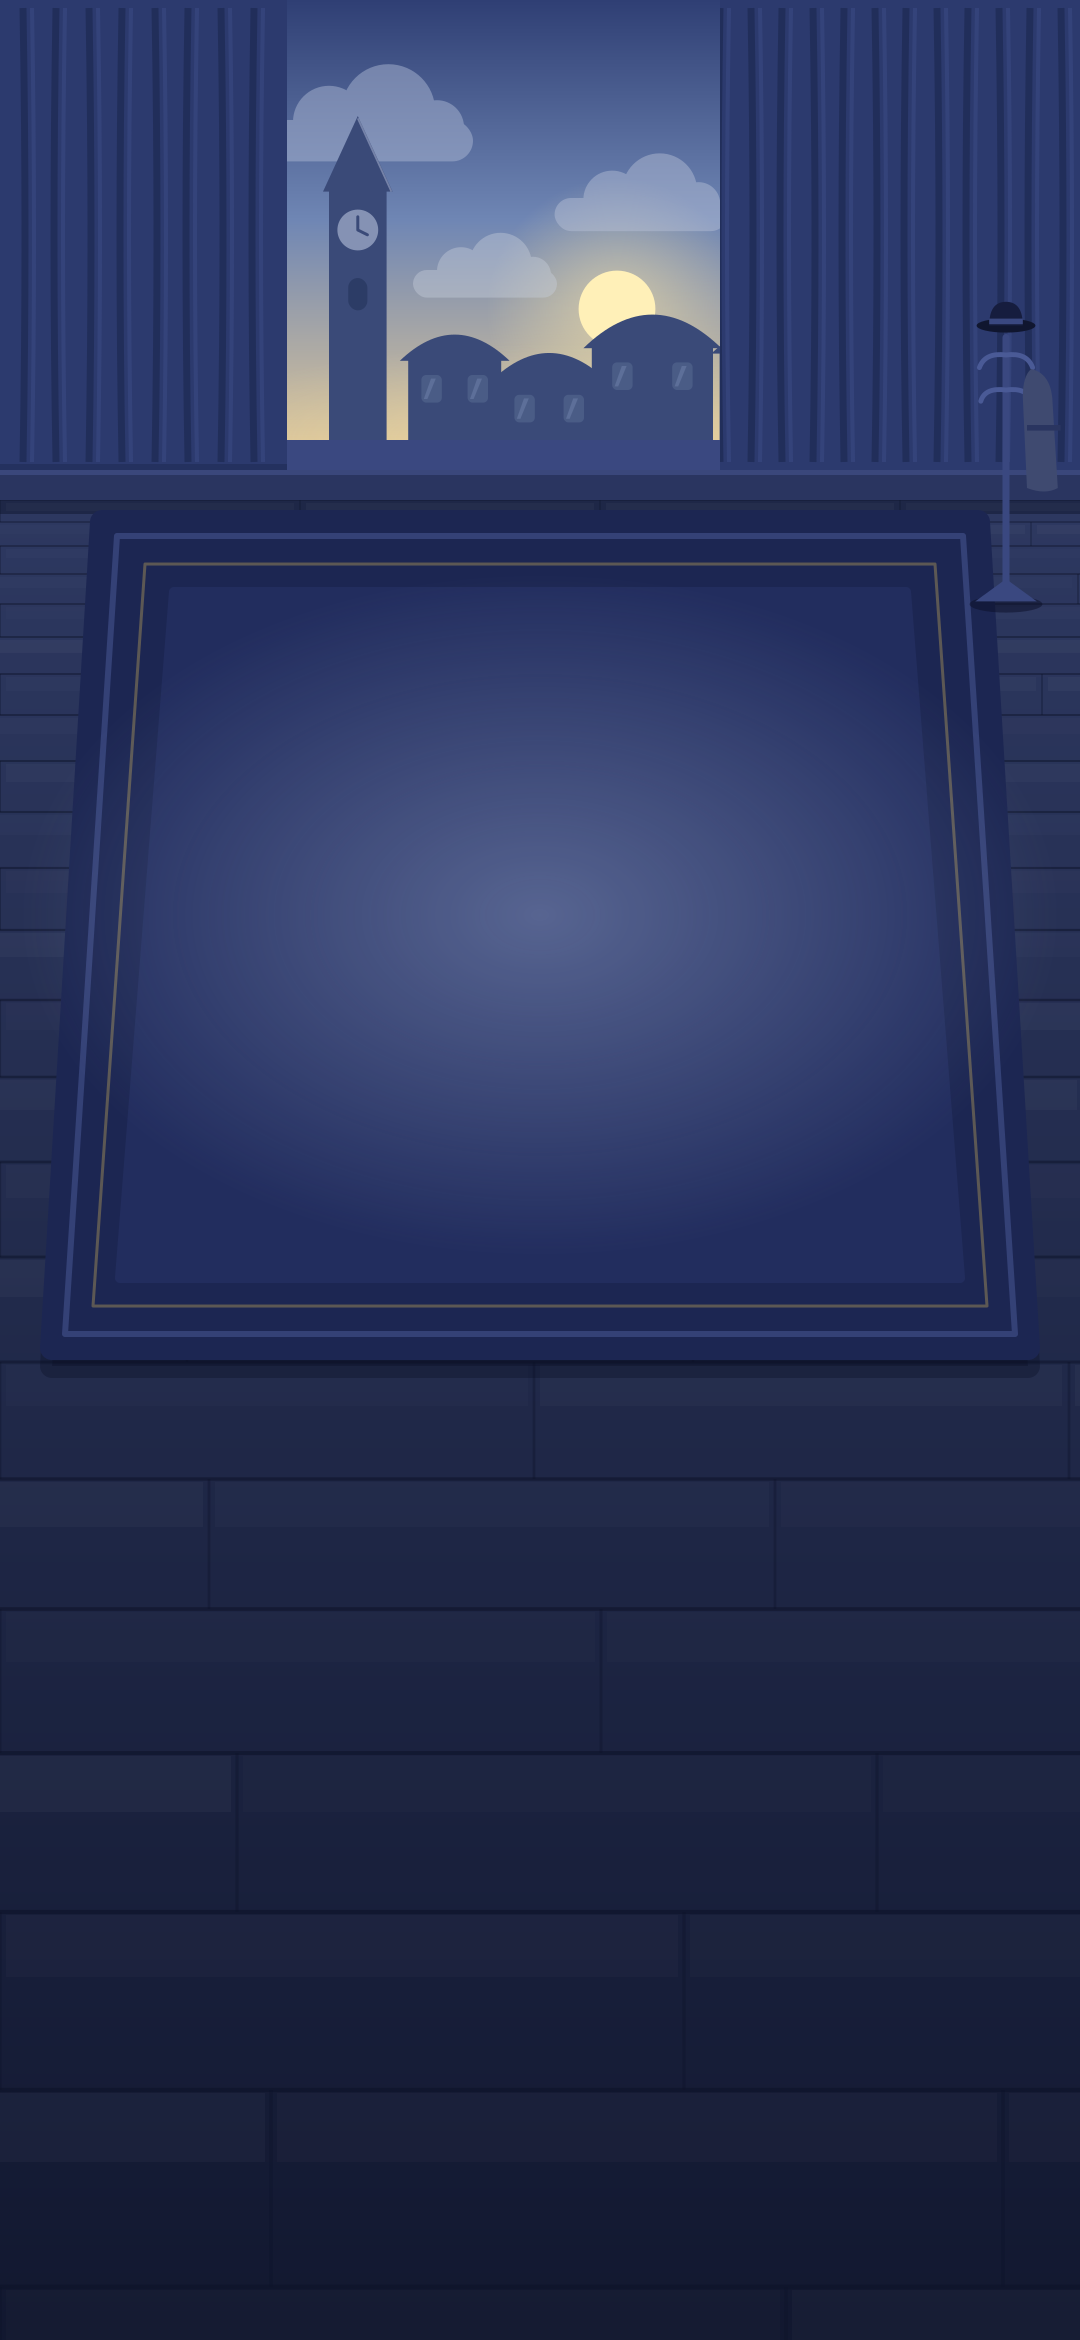
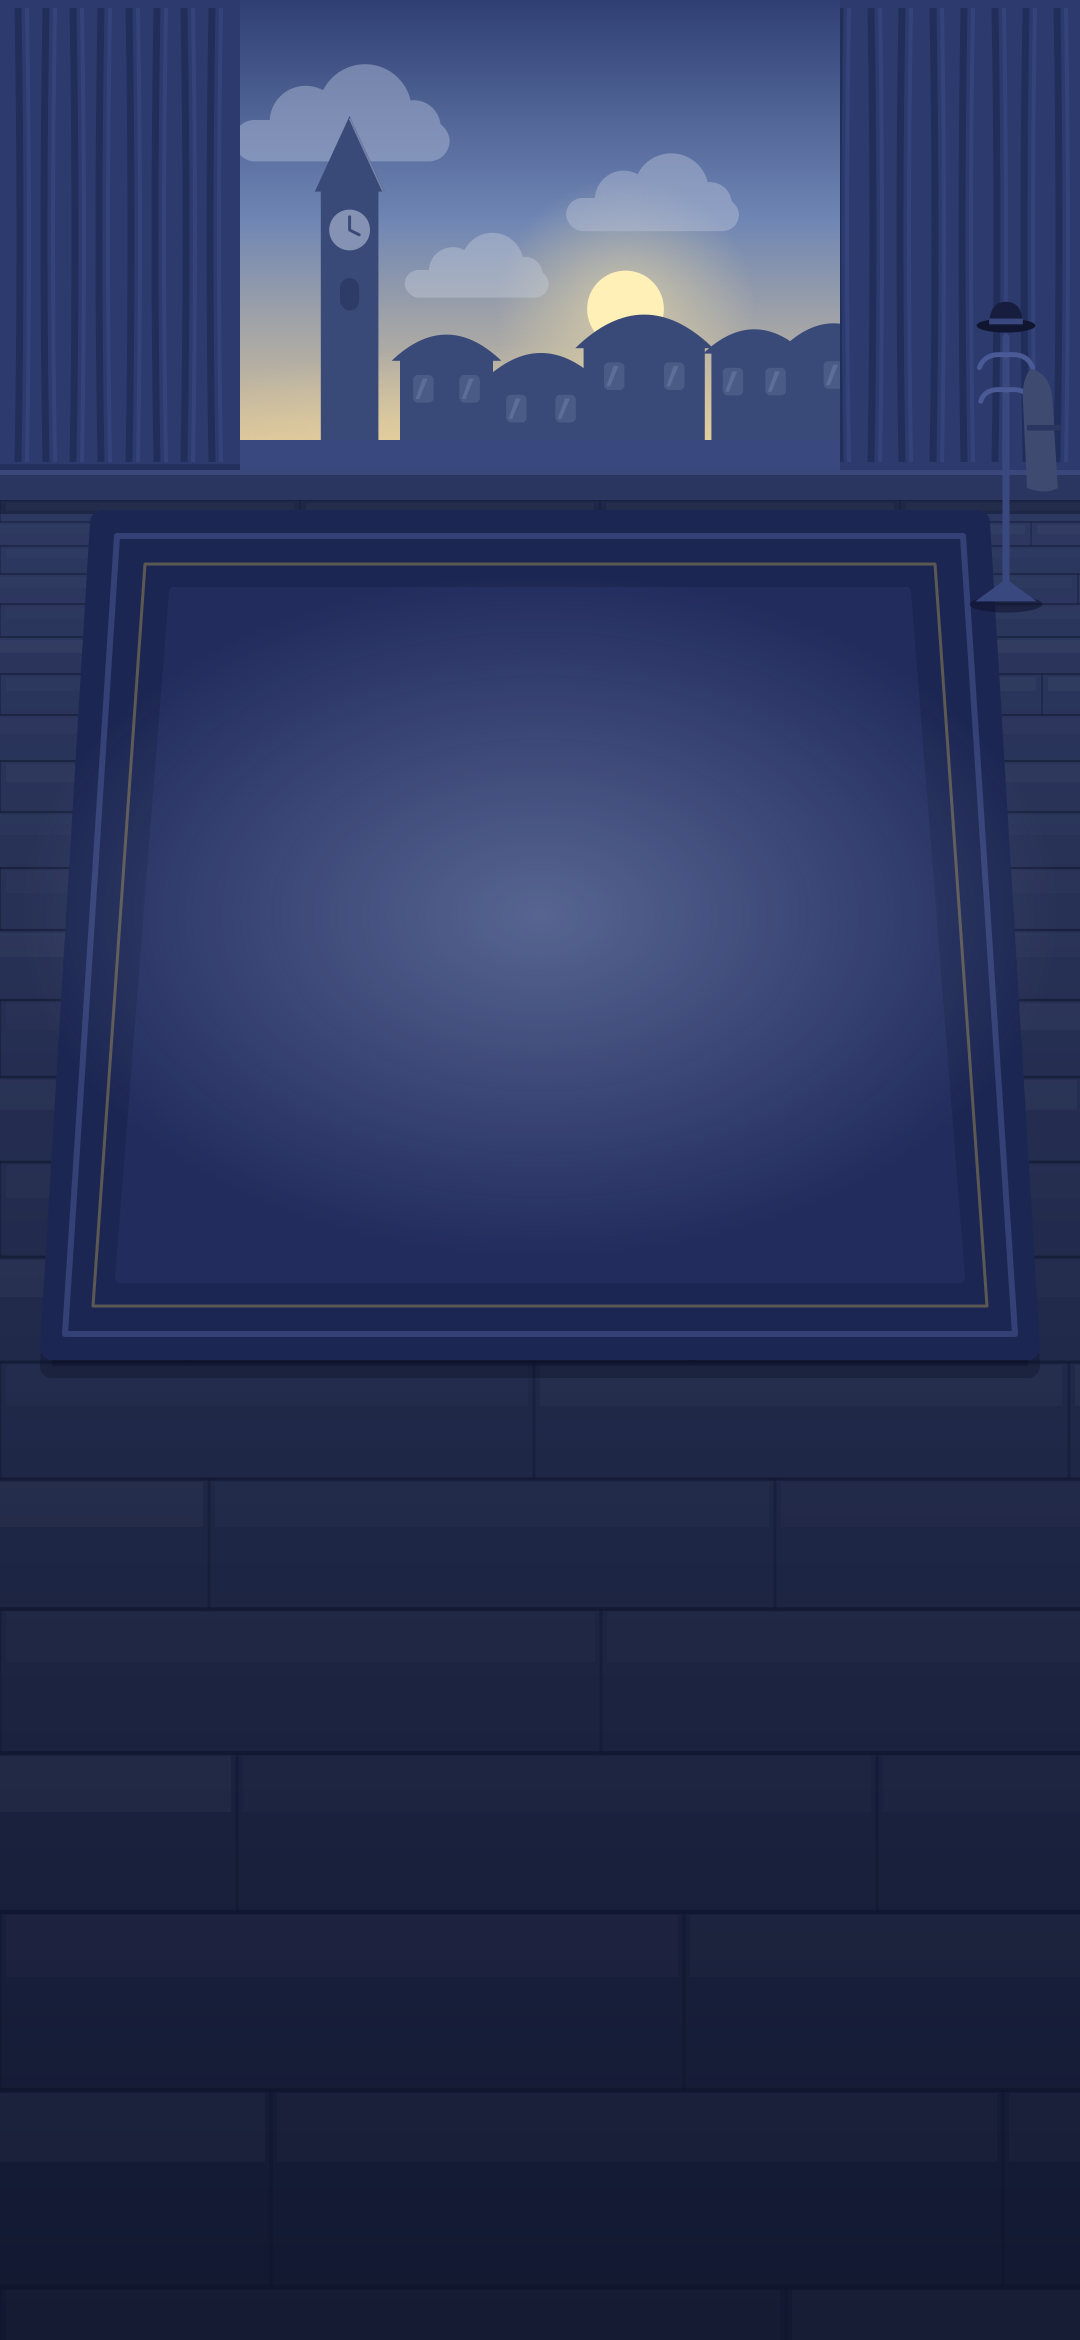
feat(bg): 실내 V2 커튼 걷힘 수정본 적용, 명도 0.8 을 변환 단계에 굽고 CSS 필터 제거
Claude-Session: https://claude.ai/code/session_01FCTtG9gzLDiavkmfWVt6rc

diff --git a/test/unit/backdropContrast.test.ts b/test/unit/backdropContrast.test.ts
@@ -36,10 +36,7 @@ const revealScrim = (() => {
   return { color: [Number(m[1]), Number(m[2]), Number(m[3])] as Rgb, alpha: Number(m[4]) };
 })();
 
-const dsCss = readFileSync(new URL("../../src/styles/ds.css", import.meta.url), "utf8");
 const phaseCss = readFileSync(new URL("../../src/styles/phase.css", import.meta.url), "utf8");
-/** 게임 구도 그림 전체 명도 배율(ds.css --mf-backdrop-dim) */
-const DIM = Number(/--mf-backdrop-dim:\s*([\d.]+)/.exec(dsCss)?.[1] ?? 1);
 /** 글씨 묶음 뒤 번짐 알파(phase.css, 남색 N%) */
 const HALO = Number(/\.mf-phasebar__text::before[^}]*night-900\) (\d+)%/.exec(phaseCss)?.[1] ?? 0) / 100;
 
@@ -98,7 +95,7 @@ async function contrastOf(scene: SceneId, w: number, zone: Zone, overlay: Overla
   for (let y = Math.ceil(zone.y0 - 0.5); y + 0.5 <= zone.y1; y++) {
     for (let x = Math.ceil(zone.x0 - 0.5); x + 0.5 <= zone.x1; x++) {
       const i = (y * width + x) * channels;
-      let px: Rgb = [data[i]! * DIM, data[i + 1]! * DIM, data[i + 2]! * DIM];
+      let px: Rgb = [data[i]!, data[i + 1]!, data[i + 2]!];
       let a = 0;
       let c: Rgb = NIGHT_900;
       if (overlay === "headerScrim") a = scrimAlpha(y + 0.5);
@@ -155,7 +152,7 @@ describe("장면 그림 6장 × 폰 폭 360·390·430 × 헤더 글씨 구역 p9
 });
 
 describe("막이 필요하다는 사실을 고정한다", () => {
-  it("실내 배경은 헤더 막 없이 밝기 배율과 글씨 뒤 번짐만으로 모든 장면·폭에서 제목과 타이머가 4.5 이상이다 (막을 쓰지 않는다)", async () => {
+  it("실내 배경은 헤더 막 없이 구워진 명도(0.8)와 글씨 뒤 번짐만으로 모든 장면·폭에서 제목과 타이머가 4.5 이상이다 (막을 쓰지 않는다)", async () => {
     for (const scene of GAME_SCENES) {
       for (const w of WIDTHS) {
         const title = await contrastOf(scene, w, titleZone(), "textHalo");

diff --git a/src/styles/ds.css b/src/styles/ds.css
@@ -51,13 +51,11 @@
 
 /* Backdrop: 화면 뒤 배경 장면 */
 :where(.mf-backdrop) { width: 100%; height: 100%; }
-.mf-backdrop { --mf-backdrop-dim: 0.8; position: relative; overflow: hidden; background: var(--night-900); isolation: isolate; }
+.mf-backdrop { position: relative; overflow: hidden; background: var(--night-900); isolation: isolate; }
 .mf-backdrop__art { position: absolute; inset: 0; z-index: -1; pointer-events: none; background-size: cover; background-repeat: no-repeat; transition: opacity var(--dur-slow) var(--ease-out); }
 /* 장면이 바뀌면 층을 쌓는다: 새 층(entering)은 그림이 준비된 뒤 current 로 켜지고 이전 층(leaving)은 꺼진 뒤 걷힌다. 축소 모션은 base.css 전역 규칙이 처리한다. */
 .mf-backdrop__art[data-state="entering"], .mf-backdrop__art[data-state="leaving"] { opacity: 0; }
 .mf-backdrop__art[data-state="current"] { opacity: 1; }
-/* 실내 배경(V2): 헤더 글씨가 읽히도록 게임 구도 그림 전체 명도를 낮춘다(0.8 = 색 값을 0.8배, 채도·색상 그대로). 입구 구도는 그대로. */
-.mf-backdrop__art[data-layout="game"] { filter: brightness(var(--mf-backdrop-dim)); }
 /* 아침·낮(밝은 하늘): 헤더 위쪽 어두운 막. 값은 src/game/scenes.ts 의 HEADER_SCRIM_STOPS 가 인라인 --mf-scrim 으로 싣는다(층과 함께 전환). */
 .mf-backdrop__art[style*="--mf-scrim"]::after { content: ""; position: absolute; inset: 0 0 auto 0; height: 150px; background: var(--mf-scrim); pointer-events: none; }
 .mf-backdrop__content { position: relative; height: 100%; }

diff --git a/src/net/assets.ts b/src/net/assets.ts
@@ -27,7 +27,7 @@ export type PreloadItem = { href: string; imageSrcSet?: string };
  * 배경·유령 그림 주소 끝에 붙이는 값. 파일 이름이 같아도 그림을 바꾼 배포가 바로 보이게 한다
  * (정적 그림 캐시가 max-age 1일이라 같은 주소는 하루 동안 옛 그림이 나온다). 그림을 바꾸면 값을 바꾼다.
  */
-export const ASSET_VERSION = "i2";
+export const ASSET_VERSION = "i3";
 
 // 파일 이름의 @ 는 URL 에서 %40 으로 쓴다. 유령 그림은 바꾼 적이 있어 버전 값을 붙인다.
 function png(dir: "table" | "roles" | "ghost", id: string, scale: 2 | 4): string {

diff --git a/src/components/Backdrop.tsx b/src/components/Backdrop.tsx
@@ -120,7 +120,7 @@ export function Backdrop(props: BackdropProps) {
           backgroundPosition: "center top",
         };
         if (SCENES[l.scene].scrim) style["--mf-scrim"] = headerScrimGradient();
-        return <div key={l.id} className="mf-backdrop__art" data-layout={layout} data-scene={l.scene} data-state={l.state} style={style} aria-hidden="true" />;
+        return <div key={l.id} className="mf-backdrop__art" data-scene={l.scene} data-state={l.state} style={style} aria-hidden="true" />;
       })}
       {children ? <div className="mf-backdrop__content">{children}</div> : null}
     </div>

diff --git a/test/client/backdrop.test.tsx b/test/client/backdrop.test.tsx
@@ -63,7 +63,7 @@ describe("Backdrop 층 규칙", () => {
     const { container } = render(<Backdrop layout="game" scene="morning" />);
     const art = container.querySelector<HTMLElement>(".mf-backdrop__art")!;
     expect(art.getAttribute("aria-hidden")).toBe("true");
-    expect(art.style.backgroundImage).toMatch(/^url\(["']?\/backgrounds\/bg_game_morning\.webp\?v=i2["']?\)$/);
+    expect(art.style.backgroundImage).toMatch(/^url\(["']?\/backgrounds\/bg_game_morning\.webp\?v=i3["']?\)$/);
     expect(art.style.backgroundPosition).toContain("top");
   });
 

diff --git a/docs/decisions/0033-indoor-v2-dim-halo.md b/docs/decisions/0033-indoor-v2-dim-halo.md
@@ -8,10 +8,10 @@
 
 1. 게임 구도 배경을 데스크톱의 "실내 배경 레이어 V2" 완성 모습 5장(`design/backgrounds/v5/`)으로 바꾼다. 창 유리와 커튼이 맨 위까지 이어지고, 해·달·구름이 장면마다 다르다. 입구 그림은 v3 그대로. WebP 합계 206.0KB.
 2. 그림을 더 고치지 않고 **화면 쪽에서 글씨를 읽히게 한다**(사용자 결정: 그림 위치·내용을 계속 바꾸기보다 UI 에서 해결).
-   - 게임 구도 배경 층에 `filter: brightness(var(--mf-backdrop-dim))`, 값 **0.8**(색 값 0.8배, 채도·색상 그대로). 0.85 는 H1 4.2:1 로 모자랐고 0.8 에서 전부 통과.
+   - 게임 구도 그림 전체 명도 **0.8**(색 값 0.8배, 채도·색상 그대로). 처음에는 CSS `filter: brightness()` 로 걸어 폰에서 확인했고("어둡지도 밝지도 않고 적절"), 사용자 결정으로 **변환 단계에 굽는 방식**으로 바꿨다(`scripts/make-backdrops.mjs` `GAME_BRIGHTNESS`, sharp `linear(0.8, 0)` — CSS 와 같은 계산, 원본 PNG 는 그대로). 값을 바꾸려면 상수를 고치고 `npm run backdrops`, `ASSET_VERSION` 을 올린다. 0.85 는 H1 4.2:1 로 모자랐고 0.8 에서 전부 통과.
    - 헤더 글씨 묶음(제목·안내, 대기실 방 코드) 뒤에 약한 번짐(남색 45%, 흐림 8px). 글씨 뒤의 별도 요소라 E2E H1 에 반영된다(text-shadow 는 반영되지 않음).
    - 헤더 어두운 막은 쓰지 않는다(`SCENES.scrim` 전부 false).
-3. 배경 그림 주소 버전 값 `ASSET_VERSION` 을 `i2` 로 올렸다(0032-4).
+3. 배경 그림 주소 버전 값 `ASSET_VERSION` 을 `i3` 로 올렸다(0032-4). 데스크톱이 커튼을 더 걷은(창 구멍 x 240~840, 좌우 대칭) V2 로 5장을 다시 내보내 반영했다.
 4. 오프라인 대비 테스트(`backdropContrast.test.ts`)는 밝기 배율과 번짐 알파를 CSS 에서 읽어 합성한다.
 
 ## 비교한 시안
@@ -20,7 +20,7 @@
 
 ## 알려진 한계
 
-- 낮이 0.8배로 어두워져 칙칙해 보일 수 있다 → 폰에서 보고 `--mf-backdrop-dim` 만 바꾼다(낮만 따로 올리는 것도 가능).
+- 폰 확인 결과 명도 0.8 이 적절하다(사용자).
 - 대기실에서 달이 방 코드 번짐에 조금 흐려진다.
 - 창이 커튼 사이 좁은 틈이라 해·달이 헤더와 일부 겹친다.
 - 층 분리 에셋은 투명 PNG 가 아니라(체크무늬가 박힌 미리보기) 아직 쓰지 못한다.

diff --git a/HANDOFF.md b/HANDOFF.md
@@ -4,7 +4,7 @@
 
 ## 지금 상태
 
-- 마지막 작업: 실내 배경 V2 + 배경 명도 0.8 + 헤더 글씨 번짐(결정 0033), 배포됨(버전은 `/api/health`), 폰 확인 대기.
+- 마지막 작업: 실내 배경 V2(커튼 더 걷힘) + 명도 0.8 구움 + 헤더 글씨 번짐(결정 0033). 명도는 폰에서 적절하다고 확인됨. 버전은 `/api/health`.
 - `npm run e2e` 는 인자가 없으면 **배포본**을 검사한다. 로컬은 `npm run dev` 후 `npm run e2e -- --url http://localhost:5173`.
 - 배경·유령 그림을 바꾸면 `ASSET_VERSION`(`src/net/assets.ts`)을 올린다(정적 그림 캐시 1일).
 - E2E 의 준비 단계 S4 실패(방장이 첫 밤에 탈락)는 무작위다. 같은 명령을 다시 돈다.
@@ -12,7 +12,7 @@
 
 ## 확인 대기 (사용자 답·확인이 필요한 것)
 
-1. 폰에서 실내 배경 V2: 낮이 칙칙한지(→ `--mf-backdrop-dim` 조정), 대기실 달·방 코드, 창·헤더 겹침, 사람·테이블이 러그 위인지, 유령 높이, 방장 배지, 후광·말풍선, 5글자 이름표 가장자리.
+1. 폰에서 새 커튼 V2: 대기실 달·방 코드, 창·헤더 겹침, 유령 높이, 방장 배지, 후광·말풍선, 5글자 이름표 가장자리. (명도 조정은 `scripts/make-backdrops.mjs` 의 `GAME_BRIGHTNESS`)
 2. 규칙 가정 A1(같은 밤 행동 동시 해결)·A2(마피아가 일부만 골라도 고른 표만 센다) — 결정 0020.
 3. 프로젝트 `CLAUDE.md` 한 줄(결정 0021 에 맞춤) 수정 허락. 사용자 소유라 고치지 않는다.
 

diff --git a/design/backgrounds/v5/README.md b/design/backgrounds/v5/README.md
@@ -4,4 +4,5 @@
 - 창 유리와 커튼이 맨 위(y=0)까지 이어지고, 해·달·구름이 장면별로 다르다. 아침은 위가 어두운 동틀녘 하늘.
 - 마루·러그·코트걸이·조명은 v4 와 같은 위치. 투표·처형은 위가 좁은 원뿔 스포트라이트(타원 중심 (540, 915)).
 - 이 폴더는 완성 모습 5장만 둔다. 레이어 10종은 투명 PNG 가 아니라 체크무늬가 박힌 미리보기라서 쓰지 않는다.
-- 앱은 배경 층에 `filter: brightness(0.85)` 를 걸고(`--mf-backdrop-dim`), 헤더 글씨 묶음 뒤에 약한 번짐(남색 45%)을 깐다. 그림 자체의 명도 조정은 폰에서 보고 정한다.
+- 이 폴더의 PNG 는 원본 그대로다. 앱용 WebP 는 변환 단계에서 명도 0.8배를 구워 만들고(`npm run backdrops`), 헤더 글씨 묶음 뒤에 약한 번짐(남색 45%, CSS)을 깐다.
+- 2026-10-26 커튼을 더 걷은 버전(창 구멍 x 240~840 좌우 대칭)으로 교체했다.
